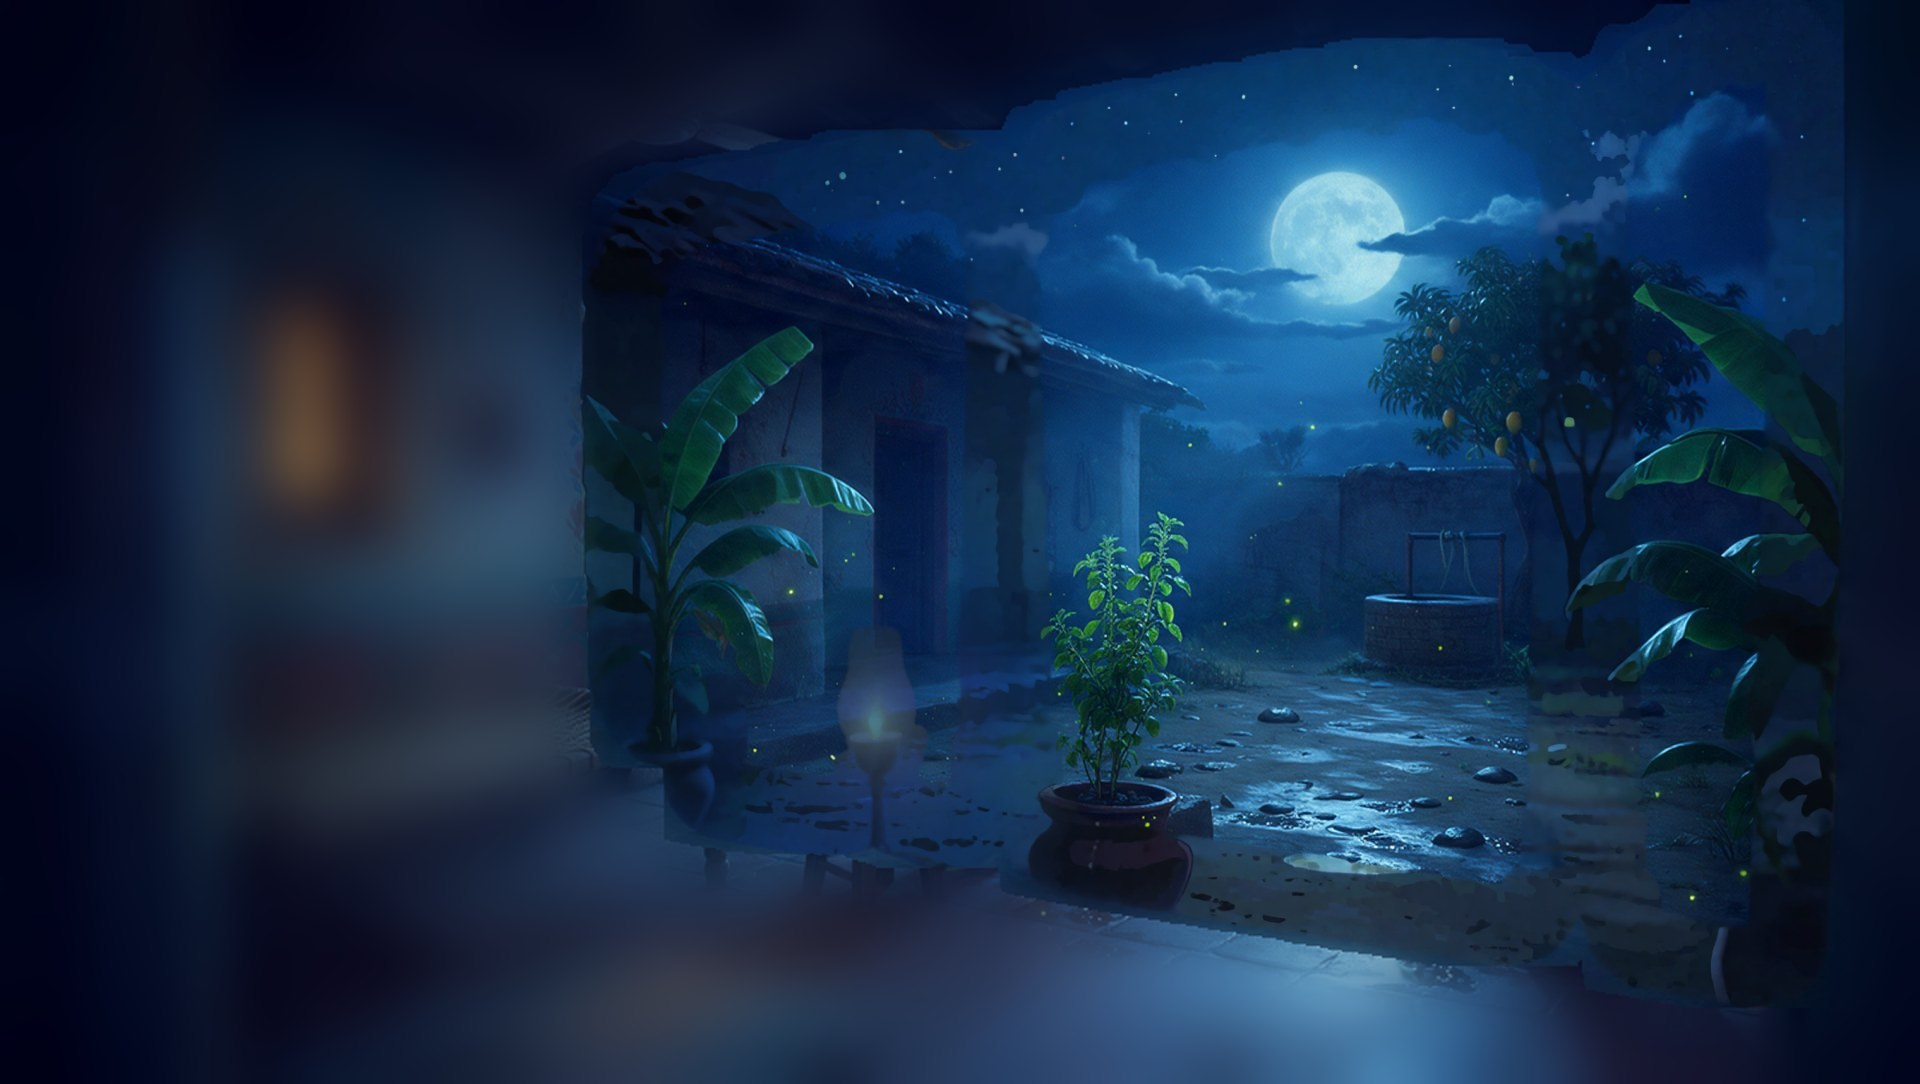
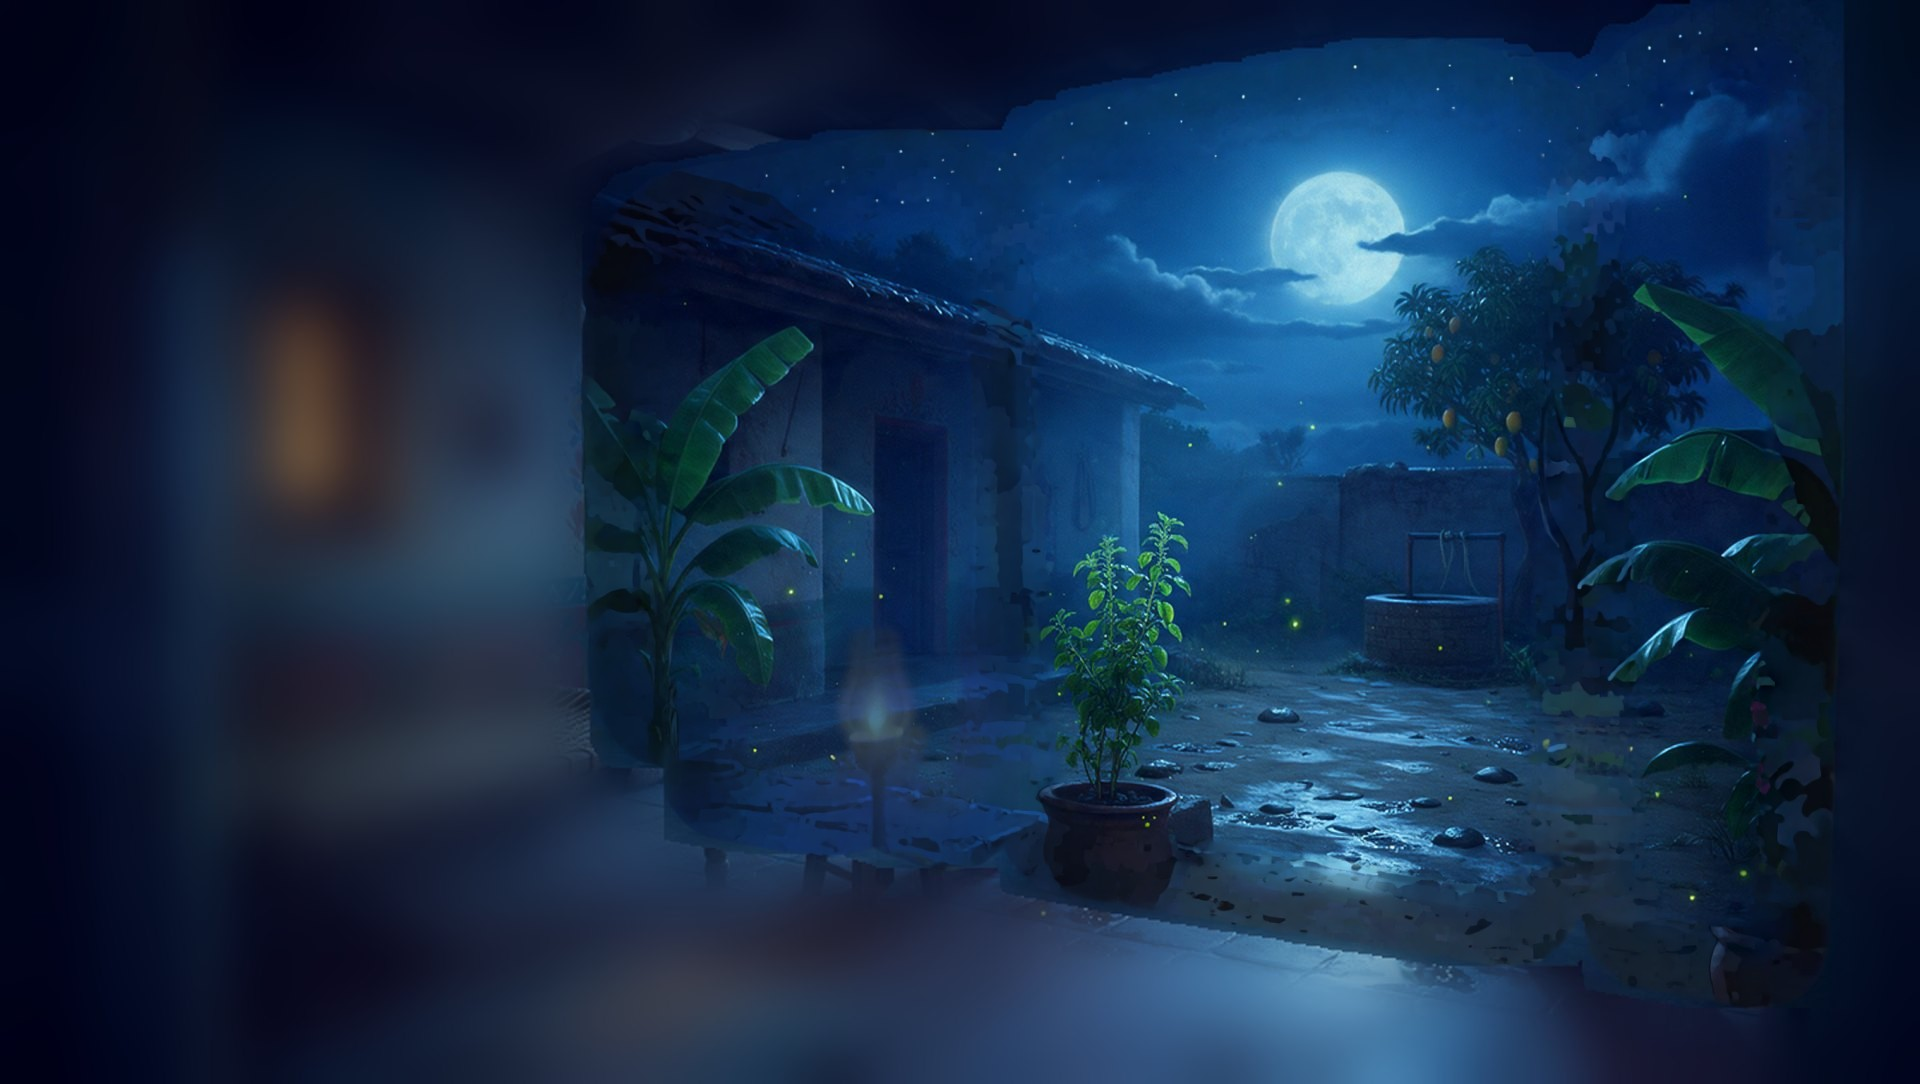
Window views: seamless frame-zone fills (no tone step at the glass edge)
Regenerated with a soft 16px mask ramp into the glass; only thin bright
frame remnants are suppressed before inpainting. After compositing, the
low-frequency tone and local contrast just outside the glass edge are
matched to the glass content, so the old pane edge no longer shows as a
darker, more contrasty band during parallax. Asset version v=6.

Claude-Session: https://claude.ai/code/session_01WmePPEVtycNtDwciTC66yT

diff --git a/public/index.html b/public/index.html
@@ -449,7 +449,7 @@ function framesFor(key){if(!LABFR||!LABFR[key])return null;if(FRM[key])return FR
     return Promise.all([...[...Array(j.n).keys()].flatMap(i=>[loadTex(dir+'/on_'+id(i)+'.jpg'),loadTex(dir+'/off_'+id(i)+'.jpg')]),
       ...[...Array(j.n-1).keys()].flatMap(i=>[loadTex(dir+'/fab_'+id(i)+'.png'),loadTex(dir+'/fba_'+id(i)+'.png')])])}).then(a=>{const m=2*F.n,A=a.slice(0,m),B=a.slice(m);
       F.on=A.filter((_,i)=>i%2==0);F.off=A.filter((_,i)=>i%2==1);F.fab=B.filter((_,i)=>i%2==0);F.fba=B.filter((_,i)=>i%2==1);F.ready=true}).catch(()=>{});return F}
-function texFor(key){if(!cache.has(key))cache.set(key,Promise.all(FILES.map(n=>loadTex(((LAB&&LAB[key])||key)+'/'+n+(/^(out_|mask)/.test(n)?'?v=5':'')))).then(a=>Object.fromEntries(FILES.map((n,i)=>[n.split('.')[0],a[i]]))));return cache.get(key)}
+function texFor(key){if(!cache.has(key))cache.set(key,Promise.all(FILES.map(n=>loadTex(((LAB&&LAB[key])||key)+'/'+n+(/^(out_|mask)/.test(n)?'?v=6':'')))).then(a=>Object.fromEntries(FILES.map((n,i)=>[n.split('.')[0],a[i]]))));return cache.get(key)}
 function evict(keep){for(const [k,p] of cache)if(!keep.includes(k)){cache.delete(k);p.then(T=>Object.values(T).forEach(t=>t.dispose()))}}
 const tvCan=document.createElement('canvas');tvCan.width=128;tvCan.height=96;const tvCtx=tvCan.getContext('2d');
 const tTV=new THREE.CanvasTexture(tvCan);tTV.minFilter=THREE.LinearFilter;tTV.generateMipmaps=false;

diff --git a/public/lab.html b/public/lab.html
@@ -450,7 +450,7 @@ function framesFor(key){if(!LABFR||!LABFR[key])return null;if(FRM[key])return FR
     return Promise.all([...[...Array(j.n).keys()].flatMap(i=>[loadTex(dir+'/on_'+id(i)+'.jpg'),loadTex(dir+'/off_'+id(i)+'.jpg')]),
       ...[...Array(j.n-1).keys()].flatMap(i=>[loadTex(dir+'/fab_'+id(i)+'.png'),loadTex(dir+'/fba_'+id(i)+'.png')])])}).then(a=>{const m=2*F.n,A=a.slice(0,m),B=a.slice(m);
       F.on=A.filter((_,i)=>i%2==0);F.off=A.filter((_,i)=>i%2==1);F.fab=B.filter((_,i)=>i%2==0);F.fba=B.filter((_,i)=>i%2==1);F.ready=true}).catch(()=>{});return F}
-function texFor(key){if(!cache.has(key))cache.set(key,Promise.all(FILES.map(n=>loadTex(((LAB&&LAB[key])||key)+'/'+n+(/^(out_|mask)/.test(n)?'?v=5':'')))).then(a=>Object.fromEntries(FILES.map((n,i)=>[n.split('.')[0],a[i]]))));return cache.get(key)}
+function texFor(key){if(!cache.has(key))cache.set(key,Promise.all(FILES.map(n=>loadTex(((LAB&&LAB[key])||key)+'/'+n+(/^(out_|mask)/.test(n)?'?v=6':'')))).then(a=>Object.fromEntries(FILES.map((n,i)=>[n.split('.')[0],a[i]]))));return cache.get(key)}
 function evict(keep){for(const [k,p] of cache)if(!keep.includes(k)){cache.delete(k);p.then(T=>Object.values(T).forEach(t=>t.dispose()))}}
 const tvCan=document.createElement('canvas');tvCan.width=128;tvCan.height=96;const tvCtx=tvCan.getContext('2d');
 const tTV=new THREE.CanvasTexture(tvCan);tTV.minFilter=THREE.LinearFilter;tTV.generateMipmaps=false;
